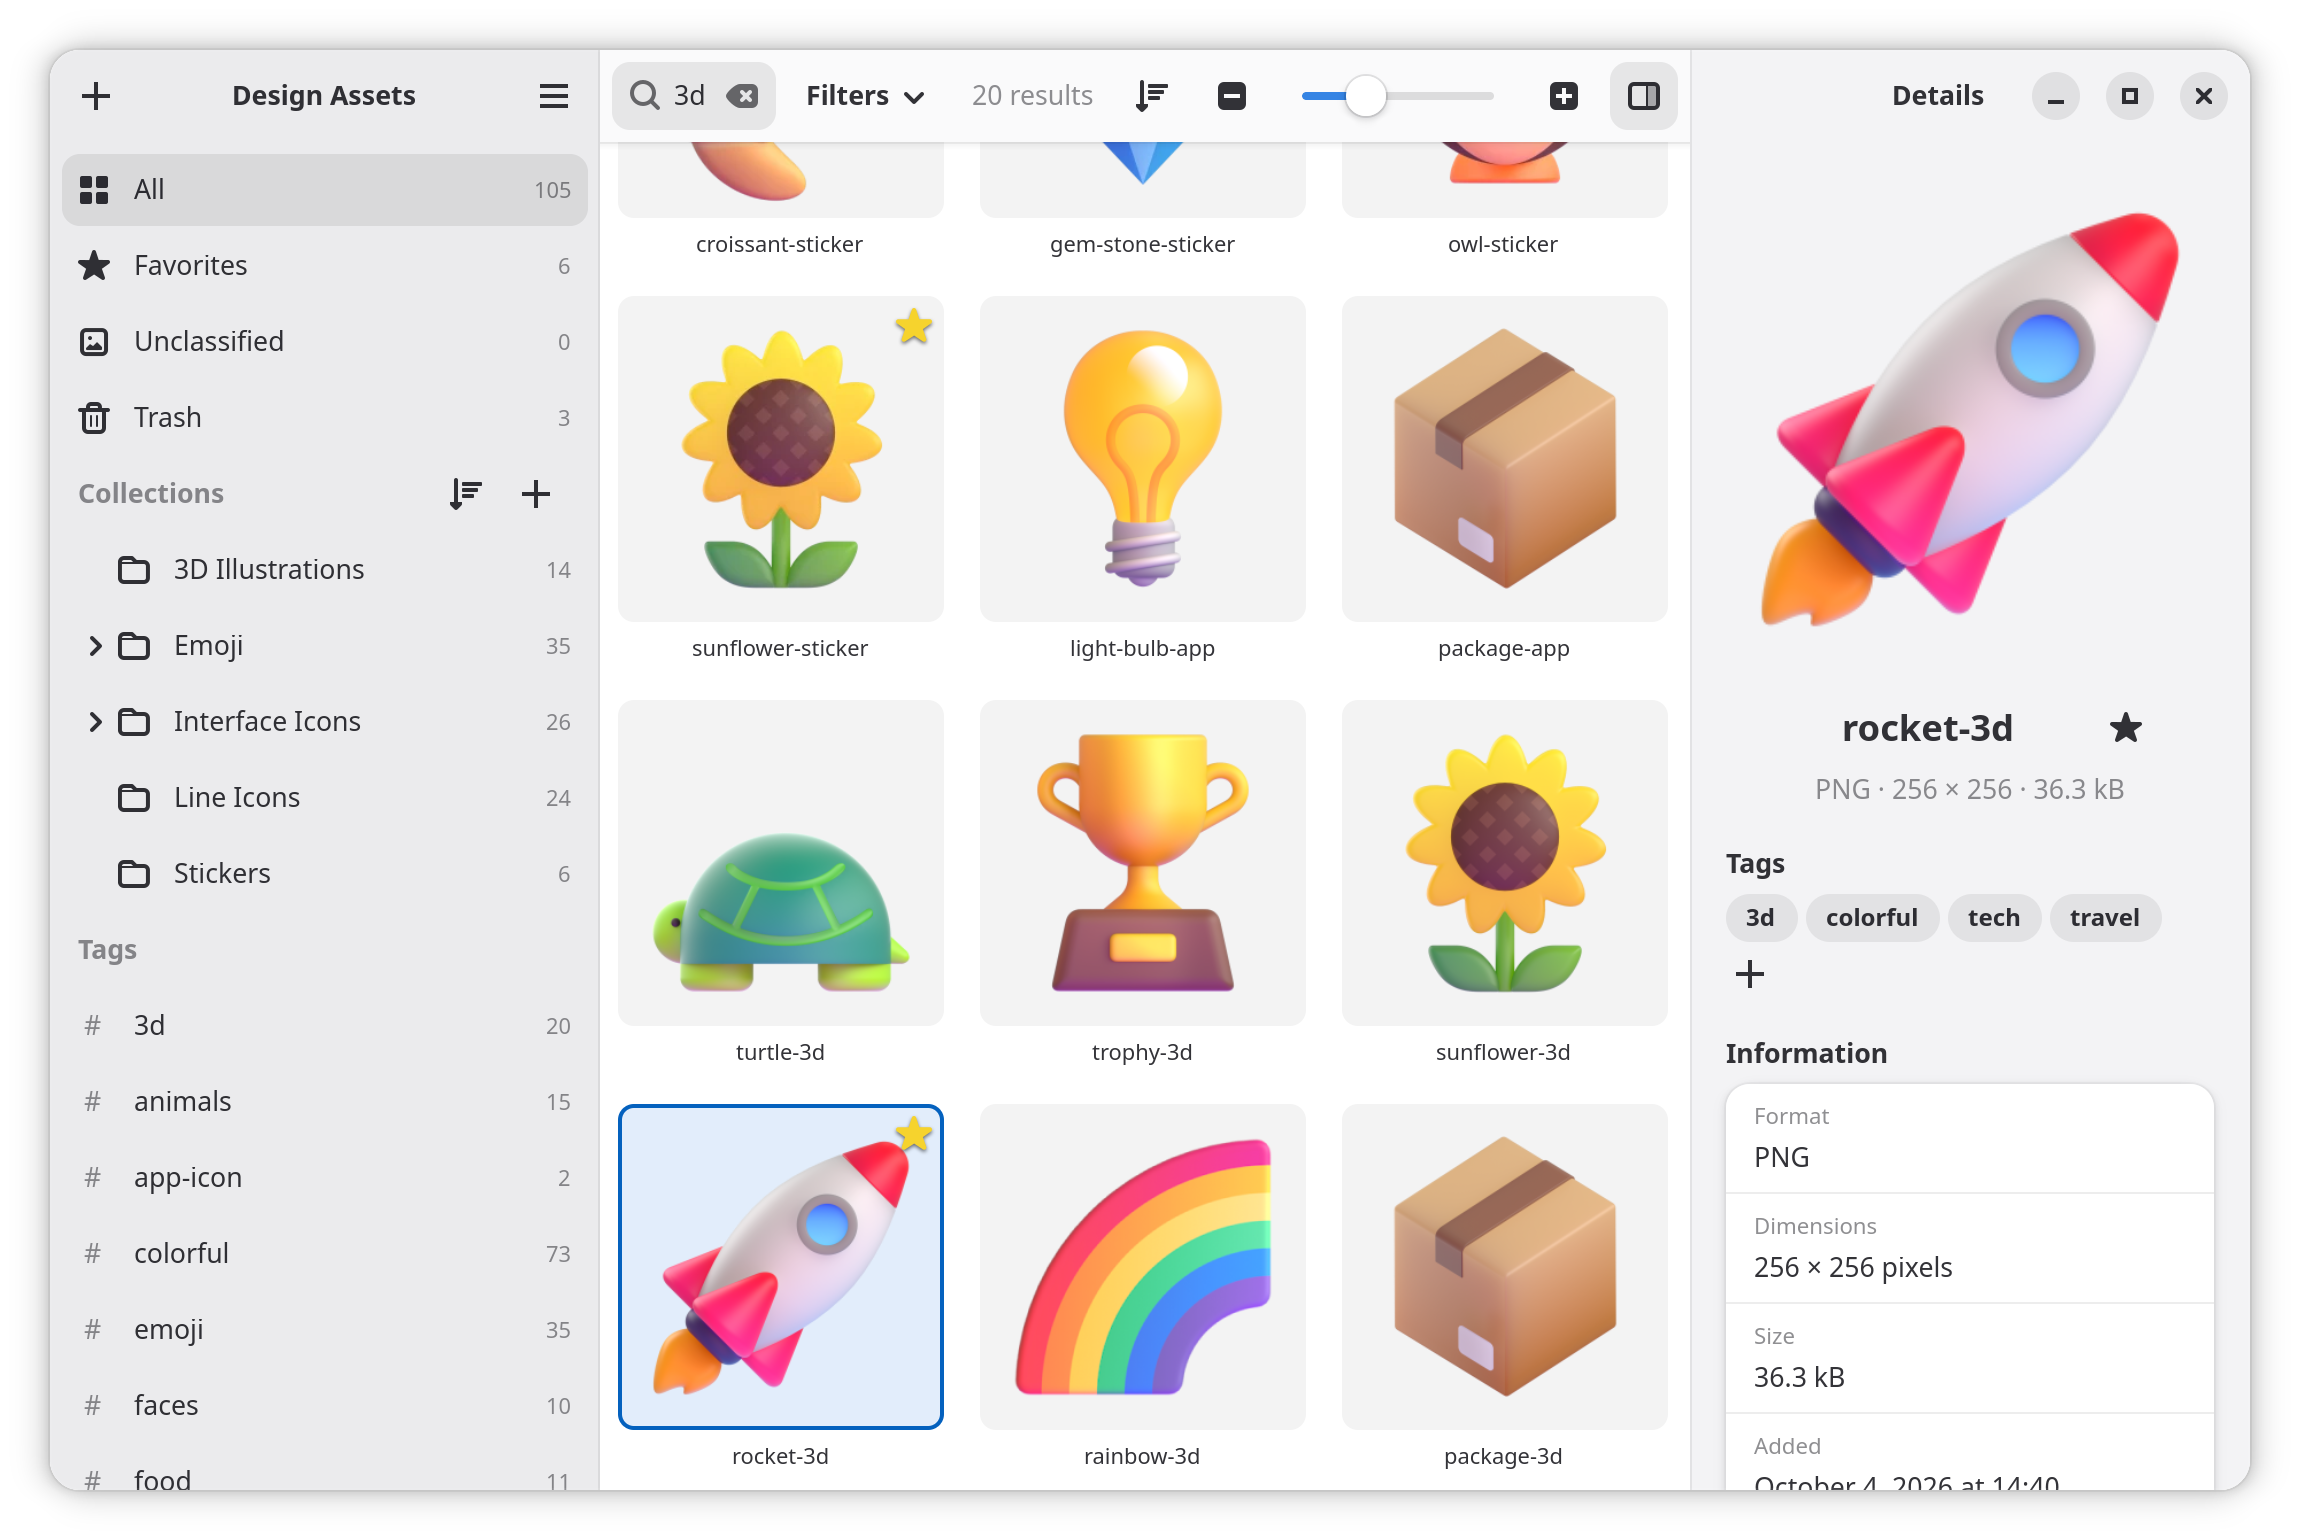
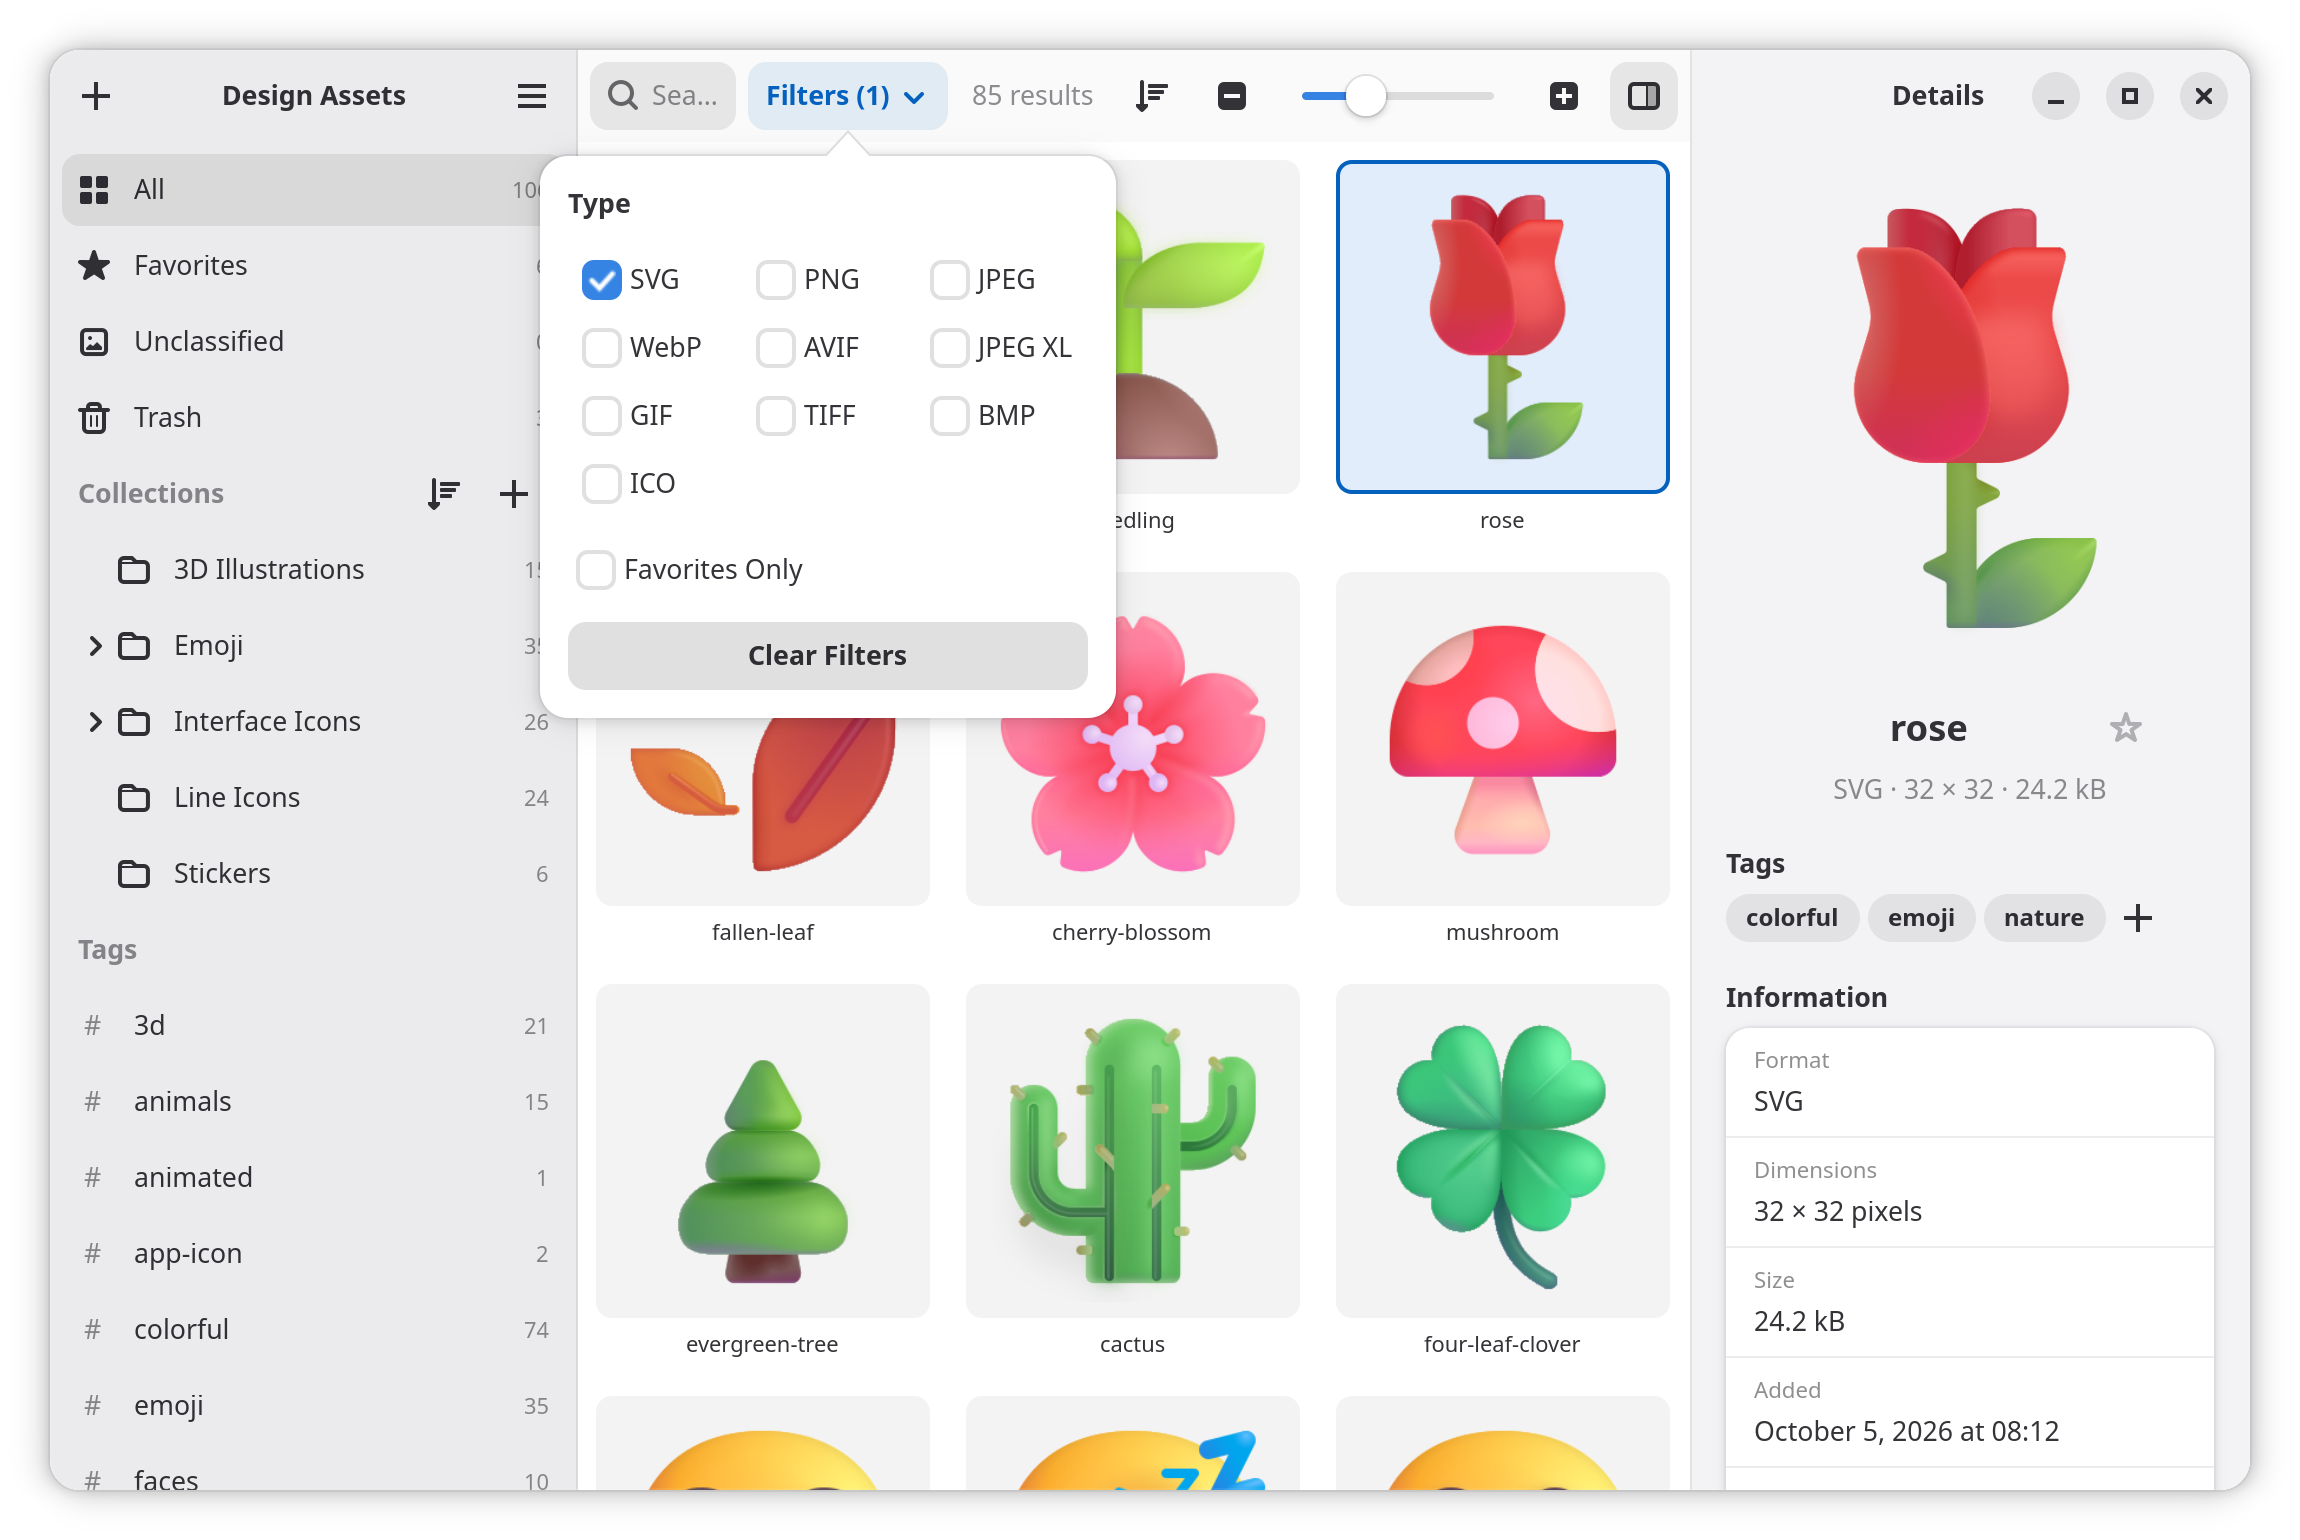
Present more features of Pigoune
The app listing and the website now show the detailed preview with
its animation controls, the conversion to other formats and the
library information, next to the grid and the filters, so that
people see more of what Pigoune can do.

diff --git a/website/fr/index.html b/website/fr/index.html
@@ -20,7 +20,7 @@
   <meta property="og:image" content="https://gor3pig.github.io/Pigoune/images/share.png">
   <meta property="og:image:width" content="2300">
   <meta property="og:image:height" content="1540">
-  <meta property="og:image:alt" content="La fenêtre principale de Pigoune, avec une grille d’icônes et de logos">
+  <meta property="og:image:alt" content="La fenêtre principale de Pigoune, avec une grille d’icônes, d’émojis et d’illustrations">
   <meta name="twitter:card" content="summary_large_image">
   <link rel="stylesheet" href="../style.css">
   <script src="../script.js" defer></script>
@@ -43,7 +43,7 @@
 
   <main>
     <div class="wrap showcase reveal">
-      <a class="zoom" href="../images/01.webp"><img src="../images/01.webp" alt="La fenêtre principale de Pigoune, avec une grille d’icônes et de logos" width="2300" height="1540"></a>
+      <a class="zoom" href="../images/01.webp"><img src="../images/01.webp" alt="La fenêtre principale de Pigoune, avec une grille d’icônes, d’émojis et d’illustrations" width="2300" height="1540"></a>
     </div>
 
     <section class="wrap reveal">
@@ -98,16 +98,16 @@
           <figcaption aria-hidden="true">Affinez votre bibliothèque avec la recherche et les filtres</figcaption>
         </figure>
         <figure>
-          <a class="zoom" href="../images/03.webp"><img src="../images/03.webp" alt="Organisez plusieurs ressources à la fois avec les tags et les collections" width="2300" height="1540" loading="lazy"></a>
-          <figcaption aria-hidden="true">Organisez plusieurs ressources à la fois avec les tags et les collections</figcaption>
+          <a class="zoom" href="../images/03.webp"><img src="../images/03.webp" alt="Examinez une ressource de près et parcourez son animation" width="2300" height="1540" loading="lazy"></a>
+          <figcaption aria-hidden="true">Examinez une ressource de près et parcourez son animation</figcaption>
         </figure>
         <figure>
-          <a class="zoom" href="../images/04.webp"><img src="../images/04.webp" alt="Voyez les détails d’une ressource d’un coup d’œil" width="2300" height="1540" loading="lazy"></a>
-          <figcaption aria-hidden="true">Voyez les détails d’une ressource d’un coup d’œil</figcaption>
+          <a class="zoom" href="../images/04.webp"><img src="../images/04.webp" alt="Convertissez vos ressources en PNG, JPEG, WebP, AVIF ou ICO" width="2300" height="1540" loading="lazy"></a>
+          <figcaption aria-hidden="true">Convertissez vos ressources en PNG, JPEG, WebP, AVIF ou ICO</figcaption>
         </figure>
         <figure>
-          <a class="zoom" href="../images/05.webp"><img src="../images/05.webp" alt="Clair ou sombre, Pigoune suit le style de votre système" width="2300" height="1540" loading="lazy"></a>
-          <figcaption aria-hidden="true">Clair ou sombre, Pigoune suit le style de votre système</figcaption>
+          <a class="zoom" href="../images/05.webp"><img src="../images/05.webp" alt="Découvrez le contenu de votre bibliothèque, en style clair ou sombre" width="2300" height="1540" loading="lazy"></a>
+          <figcaption aria-hidden="true">Découvrez le contenu de votre bibliothèque, en style clair ou sombre</figcaption>
         </figure>
       </div>
     </section>

diff --git a/website/index.html b/website/index.html
@@ -21,7 +21,7 @@
   <meta property="og:image" content="https://gor3pig.github.io/Pigoune/images/share.png">
   <meta property="og:image:width" content="2300">
   <meta property="og:image:height" content="1540">
-  <meta property="og:image:alt" content="The main window of Pigoune, with a grid of icons and logos">
+  <meta property="og:image:alt" content="The main window of Pigoune, with a grid of icons, emoji and illustrations">
   <meta name="twitter:card" content="summary_large_image">
   <link rel="stylesheet" href="style.css">
   <script src="script.js" defer></script>
@@ -44,7 +44,7 @@
 
   <main>
     <div class="wrap showcase reveal">
-      <a class="zoom" href="images/01.webp"><img src="images/01.webp" alt="The main window of Pigoune, with a grid of icons and logos" width="2300" height="1540"></a>
+      <a class="zoom" href="images/01.webp"><img src="images/01.webp" alt="The main window of Pigoune, with a grid of icons, emoji and illustrations" width="2300" height="1540"></a>
     </div>
 
     <section class="wrap reveal">
@@ -99,16 +99,16 @@
           <figcaption aria-hidden="true">Narrow down your library with search and filters</figcaption>
         </figure>
         <figure>
-          <a class="zoom" href="images/03.webp"><img src="images/03.webp" alt="Organize several assets at once with tags and collections" width="2300" height="1540" loading="lazy"></a>
-          <figcaption aria-hidden="true">Organize several assets at once with tags and collections</figcaption>
+          <a class="zoom" href="images/03.webp"><img src="images/03.webp" alt="Look closely at an asset and step through its animation" width="2300" height="1540" loading="lazy"></a>
+          <figcaption aria-hidden="true">Look closely at an asset and step through its animation</figcaption>
         </figure>
         <figure>
-          <a class="zoom" href="images/04.webp"><img src="images/04.webp" alt="See the details of an asset at a glance" width="2300" height="1540" loading="lazy"></a>
-          <figcaption aria-hidden="true">See the details of an asset at a glance</figcaption>
+          <a class="zoom" href="images/04.webp"><img src="images/04.webp" alt="Convert assets to PNG, JPEG, WebP, AVIF or ICO" width="2300" height="1540" loading="lazy"></a>
+          <figcaption aria-hidden="true">Convert assets to PNG, JPEG, WebP, AVIF or ICO</figcaption>
         </figure>
         <figure>
-          <a class="zoom" href="images/05.webp"><img src="images/05.webp" alt="Light or dark, Pigoune follows your system style" width="2300" height="1540" loading="lazy"></a>
-          <figcaption aria-hidden="true">Light or dark, Pigoune follows your system style</figcaption>
+          <a class="zoom" href="images/05.webp"><img src="images/05.webp" alt="See what your library holds, in light or dark style" width="2300" height="1540" loading="lazy"></a>
+          <figcaption aria-hidden="true">See what your library holds, in light or dark style</figcaption>
         </figure>
       </div>
     </section>
